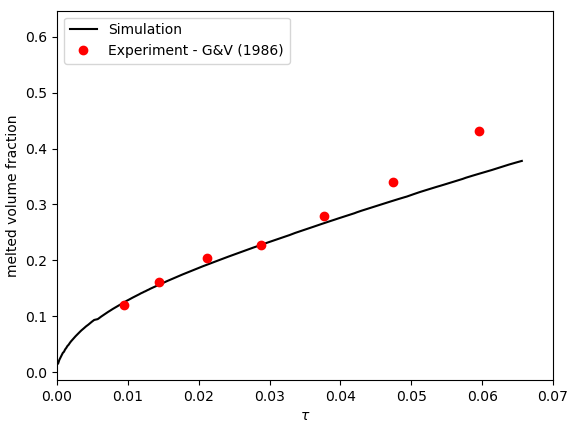
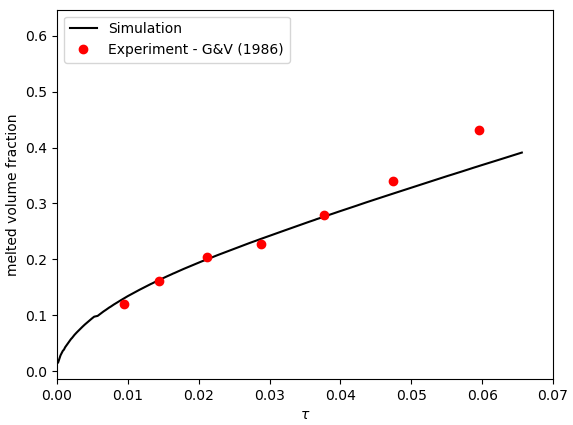
Minor changes in the melting cavity example

diff --git a/examples/multiphysics/melting_cavity/melting_cavity.py b/examples/multiphysics/melting_cavity/melting_cavity.py
@@ -1,6 +1,6 @@
 #############################################################################
 """
-Postprocessing code for melting_cavity_with_natural_convection example
+Postprocessing code for melting_cavity example
 
 """
 #############################################################################
@@ -39,13 +39,13 @@ list_vtu = [x for x in list_vtu if "pvd" not in x ]
 list_vtu = [x for x in list_vtu if "pvtu" not in x ]
 
 #Create a list of time_steps
-data = pd.read_csv("output5/melting.pvd",sep='"',header=5, usecols=[1],skiprows=[38,39]) 
+data = pd.read_csv("output/melting.pvd",sep='"',header=5, usecols=[1],skiprows=[38,39]) 
 data.columns = ["a"] 
 time_list = data['a']
 print(data['a'])
 
 #Set temperature_threshold to search for liquid-solid interface
-T_threshold = 105.15
+T_threshold = 105.05
 
 #Sort list
 time_list, list_vtu = (list(t) for t in zip(*sorted(zip(time_list, list_vtu))))

diff --git a/doc/source/examples/multiphysics/melting-cavity/melting-cavity.rst b/doc/source/examples/multiphysics/melting-cavity/melting-cavity.rst
@@ -37,7 +37,7 @@ The melting of metals (gallium in this example) with natural convection within a
 A two-dimensional block of gallium (initially in solid phase) is heated from its left wall at :math:`t = 0`. Its initial temperature is close to (but slightly smaller than) the melting point and the temperature of the left wall is higher than the melting point. Hence, the block starts melting from the left wall. In the melted zone, close to the left wall, the buoyant force (natural convection) creates vortices inside the liquid. The corresponding parameter file is 
 ``melting_cavity.prm``.
 
-The simulation parameters are selected according to the references [1, 2] to satisfy the desired conditions for dimensionless numbers
+The simulation parameters are selected according to the references [1, 2] to satisfy the desired values for the dimensionless numbers
     .. math::
         \text{Ra} = \frac{\rho^2 \beta g (T_w - T_m) L^3}{k \mu} = 10^5
 
@@ -47,7 +47,7 @@ The simulation parameters are selected according to the references [1, 2] to sat
     .. math::
         \text{St}_l = \frac{c_p (T_w - T_m)}{\lambda} = 0.041
 
-where :math:`\rho` is the fluid density, :math:`\beta` denotes the thermal expansion coefficient, :math:`g` is the magnitude of gravitational acceleration, :math:`T_w` and :math:`T_m` are hot wall temperature and melting point temperature, :math:`L` denotes the characteristic length, :math:`k` is thermal conduction coefficient, and :math:`\mu` and :math:`\nu` are dynamic and kinematic viscosities, :math:`c_p` is specific thermal capacity, and :math:`\lambda` is the enthalpy of melting.
+where :math:`\rho` is the fluid density, :math:`\beta` denotes the thermal expansion coefficient, :math:`g` is the magnitude of gravitational acceleration, :math:`T_w` and :math:`T_m` are the hot wall and the melting point temperatures, :math:`L` denotes the characteristic length, :math:`k` is the thermal conduction coefficient, and :math:`\mu` and :math:`\nu` are the dynamic and kinematic viscosities, :math:`c_p` is the specific thermal capacity, and :math:`\lambda` is the enthalpy of melting.
 
 .. note:: 
     All the four boundary conditions are ``noslip``, and an external 
@@ -102,7 +102,7 @@ The ``multiphysics`` subsection enables to turn on `(true)` and off `(false)` th
     end 
     
 
-In the ``initial condition``, the initial velocity and initial temperature in the simulation domain are defined. The initial velocity is equal to zero as the block is in the solid phase at :math:`t = 0`. The initial temperature is chosen slightly (0.1 :math:`^{\circ} C`) smaller than the melting point temperature.
+In the ``initial condition``, the initial velocity and initial temperature in the simulation domain are defined. The initial velocity is equal to zero as the block is in the solid phase at :math:`t = 0` s. The initial temperature is chosen slightly (0.1 :math:`^{\circ} C`) smaller than the melting point temperature.
 
 .. code-block:: text
 
@@ -133,7 +133,7 @@ The ``source term`` subsection defines the gravitational acceleration. The value
         end
     end
 
-The solid block melts into liquid in this example, hence in the ``physical properties`` subsection, we define the phase change parameters. Similar to gravitational acceleration, the latent enthalphy of phase change is selected to satisfy the value of St dimensionless number. A :math:`\Delta T = 0.1 ^{\circ} C` is selected between the solidus and liquidus temperatures. For more information about the phase change model in Lethe, visit :doc:`Stefan problem <../stefan_problem/stefan_problem>` example. The viscosity of the solid phase is chosen :math:`\approx = 10000` times larger than the viscosity of the liquid phase.
+The solid block melts into liquid in this example, hence in the ``physical properties`` subsection, we define the phase change parameters. Similar to gravitational acceleration, the latent enthalphy of phase change is selected to satisfy the value of St dimensionless number. A :math:`\Delta T = 0.1 ^{\circ} C` is selected between the solidus and liquidus temperatures. For more information about the phase change model in Lethe, visit the :doc:`Stefan problem <../stefan_problem/stefan_problem>` example. The viscosity of the solid phase is chosen :math:`\approx 10000` times larger than the viscosity of the liquid phase.
 
 
 .. code-block:: text
